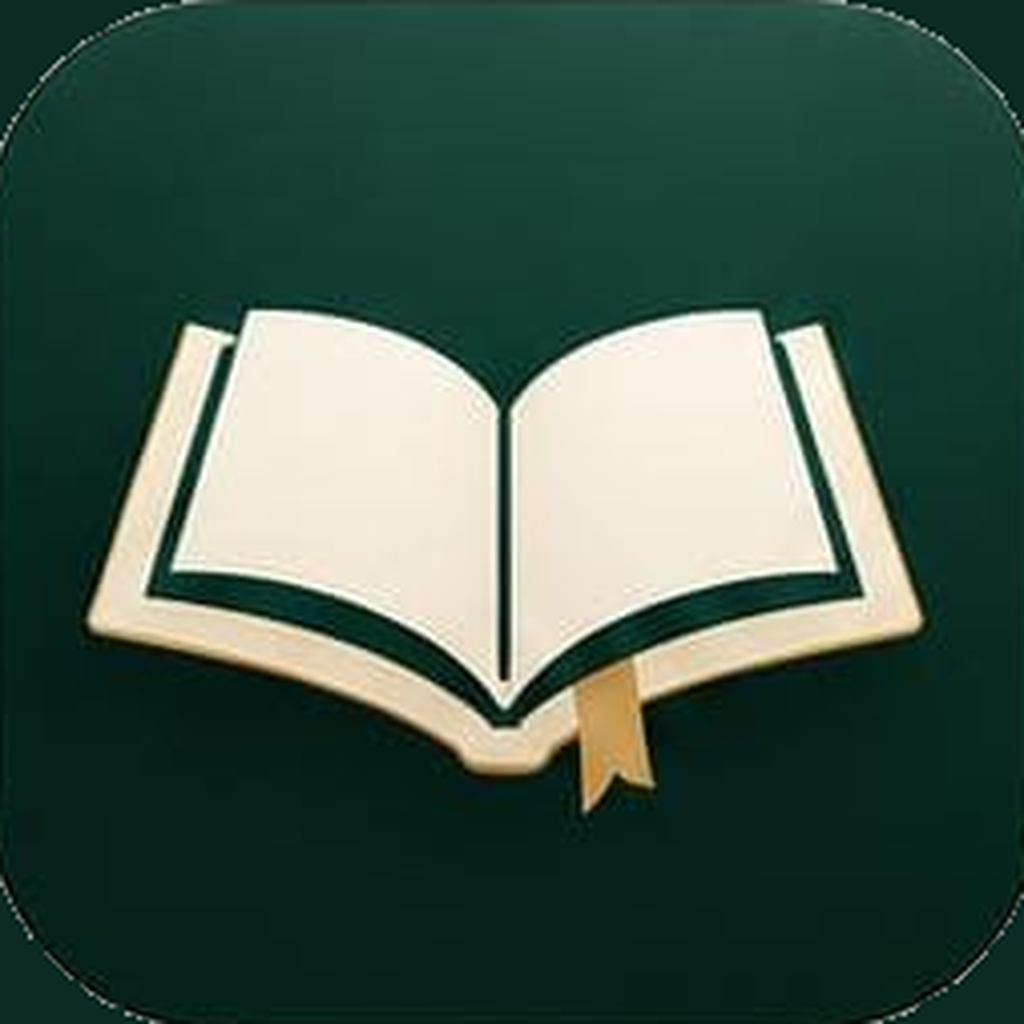
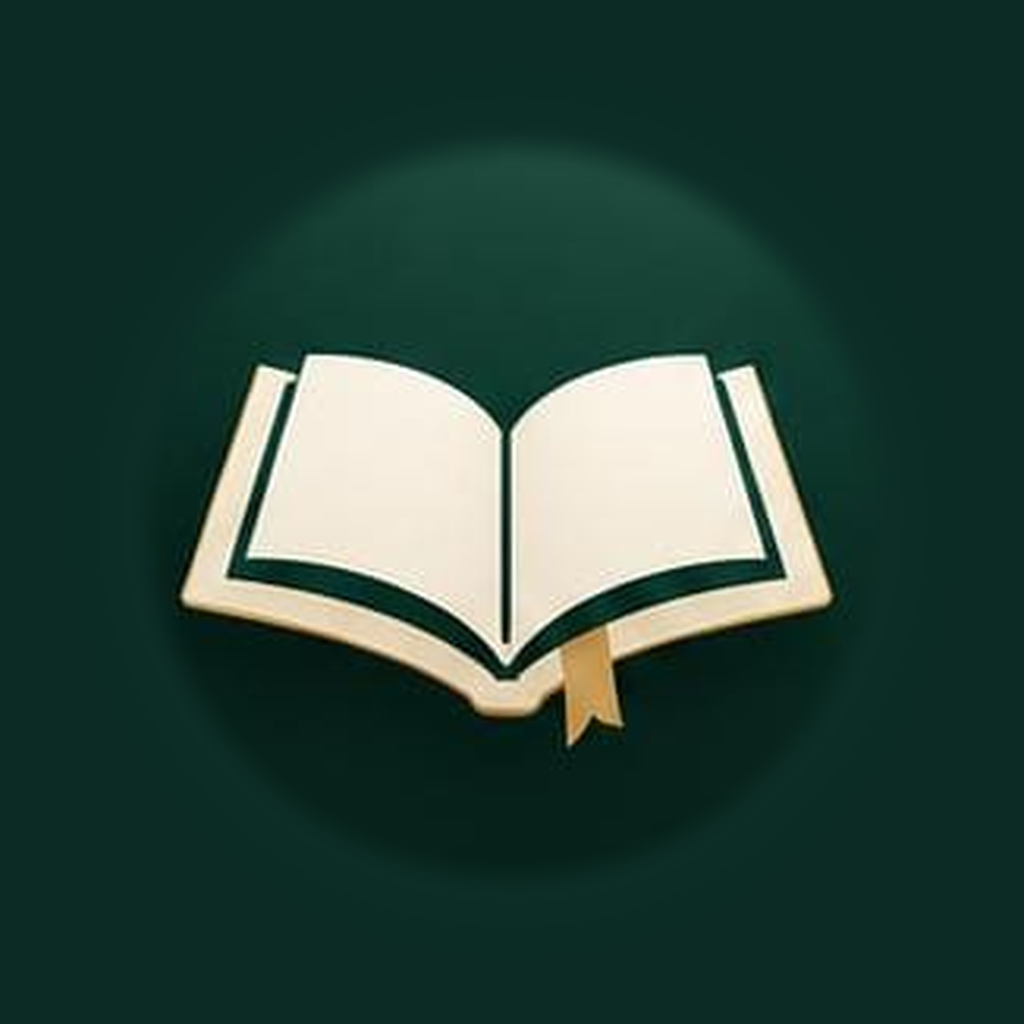
الأيقونة: المصحف مصغّرًا في المنتصف على حقل متّصل
- المصحف الآن ٦٢٪ من عرض الأيقونة بدل ٨٠٪، جالسًا في منتصف حقل
  أخضر متّصل — بلا الحافّة الفاتحة (حدّ التوهّج في العمل الأصلي)
  ولا الظلّ ولا أي أثر من خلفية الموك-أب الذي كان يبدو كحدّ
  حول المربّع.
- prep-icon.py: قصّ الحقل الضيّق وملء زواياه كما كانا، ثم تركيب
  اللصيقة على لوحة بتدرّج شعاعي من رتونج العمل نفسه (توهّج المركز
  نحو حافة الحقل) عبر قناع smoothstep بين نصفي القطر
  FADE_IN/FADE_OUT — الدائرة الناتجة تُقرأ كتوهّج طبيعي خلف العلامة.
- MARK_SCALE يضبط حجم العلامة لكل عمل مستقبلي؛ الفحص ناجح:
  أخضر ٨٦٪ / ذهبي ٩٫٣٪، والتطبيق مُحدَّث على الجهاز.

diff --git a/scripts/prep-icon.py b/scripts/prep-icon.py
@@ -7,14 +7,22 @@ wooden stand, all on a light backdrop.
 
 make-icons.ps1 cuts the program's true-squircle border (superellipse
 n=5) out of the prepared file and paints everything outside it deep
-green, so the prepared file must be the mark full-bleed:
-  1. crop the green squircle field edge-to-edge (its extents come from
-     a row/column profile of green pixels, so the baked drop shadow
-     that hangs below the squircle never counts as field);
-  2. flood the light backdrop (and its shadow) that leaks in at the
-     corners with the field's own edge colour -- every such pixel is
-     reachable from the border without crossing green, while the arch,
-     crescent, mosque and Mushaf stay safely inside the field.
+green, so the prepared file must be the mark on a clean full-bleed
+field:
+  1. measure the green field (row/column profile of green pixels, so
+     the baked drop shadow that hangs below the squircle never counts);
+  2. cut a tight square on that field and flood the backdrop leaking
+     in at its corners with the field's edge colour -- this patch now
+     holds the mark (arch, crescent, mosque, Mushaf) and its glow,
+     without the mockup's lit rim, its shadow or its backdrop;
+  3. lay that patch, scaled down to MARK_SCALE, onto a radial
+     gradient of the same family (glow tone at the centre fading to
+     the edge tone), blending the two through a smoothstep ring
+     FADE_IN..FADE_OUT -- the mark sits smaller, optically centred,
+     in one continuous field with nothing of the mockup left over.
+
+The three constants below place the ring outside the mark and inside
+the patch rim; retune them if a future artwork's mark is wider.
 
 Run from the repository root:
     python scripts/prep-icon.py
@@ -30,8 +38,12 @@ SRC = ROOT / "icon-source.jpg"
 OUT = ROOT / "icon-prepared.png"
 
 SIZE = 1024          # output edge (make-icons scales it to every target)
-EDGE_INSET = 0.99    # crop slightly inside the field so no light halo
+EDGE_INSET = 0.99    # tight field crop, slightly inside the field edge
 PROFILE_FLOOR = 0.25  # rows/cols below this share of the peak count are shadow
+
+MARK_SCALE = 0.78    # patch size on the canvas: shrinks the mark into a margin
+FADE_IN = 0.67       # full-opacity ring radius (fraction of half-size)
+FADE_OUT = 0.755     # fully blended ring radius, inside the patch rim
 
 
 def field_mask(a: np.ndarray) -> np.ndarray:
@@ -75,24 +87,49 @@ def border_reachable(not_field: np.ndarray) -> np.ndarray:
         reach = grown
 
 
+def smoothstep(t: np.ndarray) -> np.ndarray:
+    t = np.clip(t, 0.0, 1.0)
+    return t * t * (3 - 2 * t)
+
+
 def main() -> None:
     im = Image.open(SRC).convert("RGB")
     a = np.asarray(im)
+
+    # Tight square on the field; its corners/backdrop get flooded, so the
+    # patch holds the mark and its glow but none of the mockup's frame.
     x0, y0, x1, y1 = field_box(field_mask(a))
-    crop = a[y0:y1, x0:x1]
-    print(f"field crop {x1 - x0}x{y1 - y0} from {im.size[0]}x{im.size[1]}")
-
-    mask = field_mask(crop)
-    leak = border_reachable(~mask)
-    # The field's own edge colour, sampled where it meets the crop border.
-    edge_pixels = crop[mask & border_edge(mask)]
+    tight = a[y0:y1, x0:x1]
+    mask = field_mask(tight)
+    edge_pixels = tight[mask & border_edge(mask)]
     edge = (np.median(edge_pixels.reshape(-1, 3), axis=0) if len(edge_pixels)
-            else np.median(crop[mask].reshape(-1, 3), axis=0))
-    print(f"backdrop pixels to fill: {int(leak.sum())}, edge colour {tuple(int(v) for v in edge)}")
+            else np.median(tight[mask].reshape(-1, 3), axis=0))
+    patch = tight.copy()
+    patch[border_reachable(~mask)] = edge
+    h, w = patch.shape[:2]
+    # Glow tone: the bright field right above the mark, not the mark itself.
+    glow = np.median(patch[int(h * 0.18):int(h * 0.28),
+                           int(w * 0.40):int(w * 0.61)].reshape(-1, 3), axis=0)
 
-    out = crop.copy()
-    out[leak] = edge
-    Image.fromarray(out).resize((SIZE, SIZE), Image.LANCZOS).save(OUT)
+    # One continuous radial field: glow at the centre fading to the edge.
+    half = SIZE / 2
+    yy, xx = np.mgrid[0:SIZE, 0:SIZE]
+    rr = np.hypot(yy - half, xx - half) / half
+    canvas = glow + (edge - glow) * smoothstep(rr)[..., None]
+
+    # The patch, MARK_SCALE big, blended in through a smoothstep ring: the
+    # mark shrinks and centres, the blend ends before the patch rim.
+    side = int(SIZE * MARK_SCALE)
+    small = np.asarray(Image.fromarray(patch).resize((side, side), Image.LANCZOS))
+    pad = (SIZE - side) // 2
+    layer = np.tile(edge, (SIZE, SIZE, 1)).astype(float)
+    layer[pad:pad + side, pad:pad + side] = small
+    alpha = smoothstep((FADE_OUT - rr) / (FADE_OUT - FADE_IN))[..., None]
+    out = canvas * (1 - alpha) + layer * alpha
+
+    print(f"field {w}x{h} -> mark at {MARK_SCALE:.0%}, "
+          f"glow {tuple(int(v) for v in glow)}, edge {tuple(int(v) for v in edge)}")
+    Image.fromarray(np.clip(out, 0, 255).astype(np.uint8)).save(OUT)
     print(f"wrote {OUT}")
 
 
